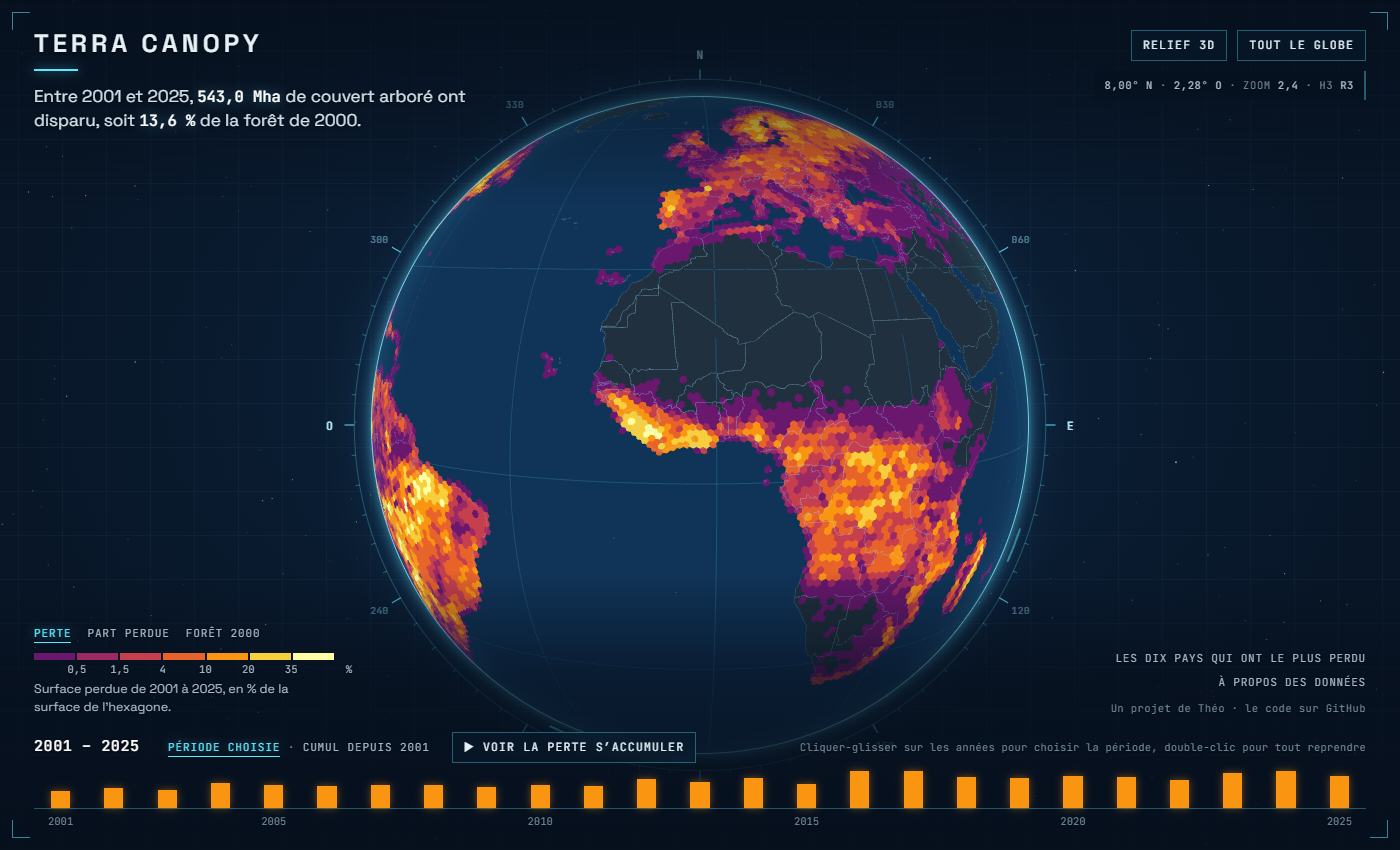
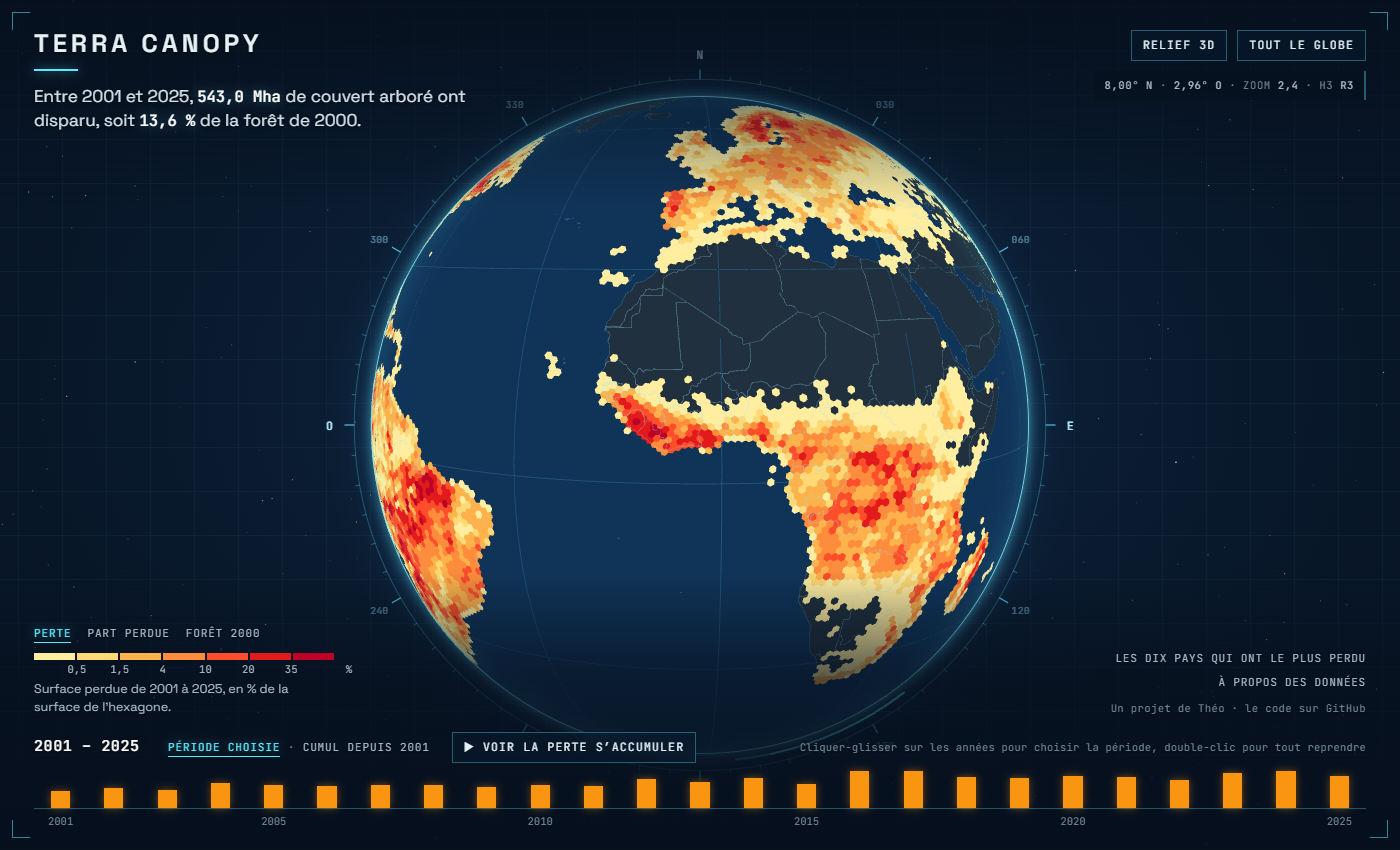
Palette jaune vers rouge pour la perte, a la place d'inferno

diff --git a/web/src/couleurs.js b/web/src/couleurs.js
@@ -1,16 +1,15 @@
-// Couleurs sur fond sombre : du plus sombre (peu) au plus lumineux (beaucoup).
-// Perte : 7 teintes prises dans la palette « inferno » (van der Walt et Smith, matplotlib), du violet
-// au jaune pale, entre 0,3 et 1 de l'echelle pour que la premiere classe reste visible sur le globe.
-// Inferno est faite pour que la clarte monte reguliere, et elle se lit aussi avec un daltonisme.
-// Foret : meme principe avec « viridis », du bleu au jaune-vert.
+// Perte et part perdue : du jaune (peu) au rouge (beaucoup), 7 teintes de la palette « YlOrRd » de
+// ColorBrewer (Cynthia Brewer). On saute la teinte la plus pale, trop proche du blanc, et la plus
+// sombre, un bordeaux qui se perdait sur le fond bleu nuit.
+// Foret : « viridis » (matplotlib), du bleu au jaune-vert, entre 0,3 et 1 de l'echelle.
 // Seuils fixes et ronds plutot que des quantiles : une couleur garde le meme sens quand on zoome
 // ou qu'on se deplace, et la legende se lit directement.
-const INFERNO = ['#6a176e', '#9b2964', '#c63f4e', '#e8632a', '#fa9512', '#f7cf3c', '#fcffa4'];
+const JAUNE_ROUGE = ['#ffeda0', '#fed976', '#feb24c', '#fd8d3c', '#fc4e2a', '#e31a1c', '#bd0026'];
 const VIRIDIS = ['#355f8d', '#2a7b8e', '#20968b', '#29af7f', '#55c667', '#95d840', '#fde725'];
 
 export const CLASSES = {
-  perte: { seuils: [0.5, 1.5, 4, 10, 20, 35], couleurs: INFERNO },
-  part: { seuils: [1, 2.5, 5, 10, 20, 35], couleurs: INFERNO },
+  perte: { seuils: [0.5, 1.5, 4, 10, 20, 35], couleurs: JAUNE_ROUGE },
+  part: { seuils: [1, 2.5, 5, 10, 20, 35], couleurs: JAUNE_ROUGE },
   foret: { seuils: [5, 15, 30, 50, 70, 85], couleurs: VIRIDIS },
 };
 

diff --git a/README.md b/README.md
@@ -70,6 +70,10 @@ Les couleurs de la carte viennent maintenant de la palette « inferno » de matp
 
 J'ai aussi allégé le texte. Le choix de ce que montre la carte (perte, part perdue, forêt 2000) est passé du titre au-dessus de la légende, et la légende n'a plus qu'une phrase.
 
+### 09/11/2026
+
+Finalement le violet d'inferno pour les petites pertes ne rendait pas bien. La perte et la part perdue vont maintenant du jaune au rouge, avec 7 teintes de la palette YlOrRd de ColorBrewer. J'ai enlevé la teinte la plus pâle, presque blanche, et le bordeaux le plus sombre, qui se perdait sur le fond. La forêt de 2000 garde viridis.
+
 ## Ce que montre la carte
 
 | | Ce projet | Global Forest Watch |
